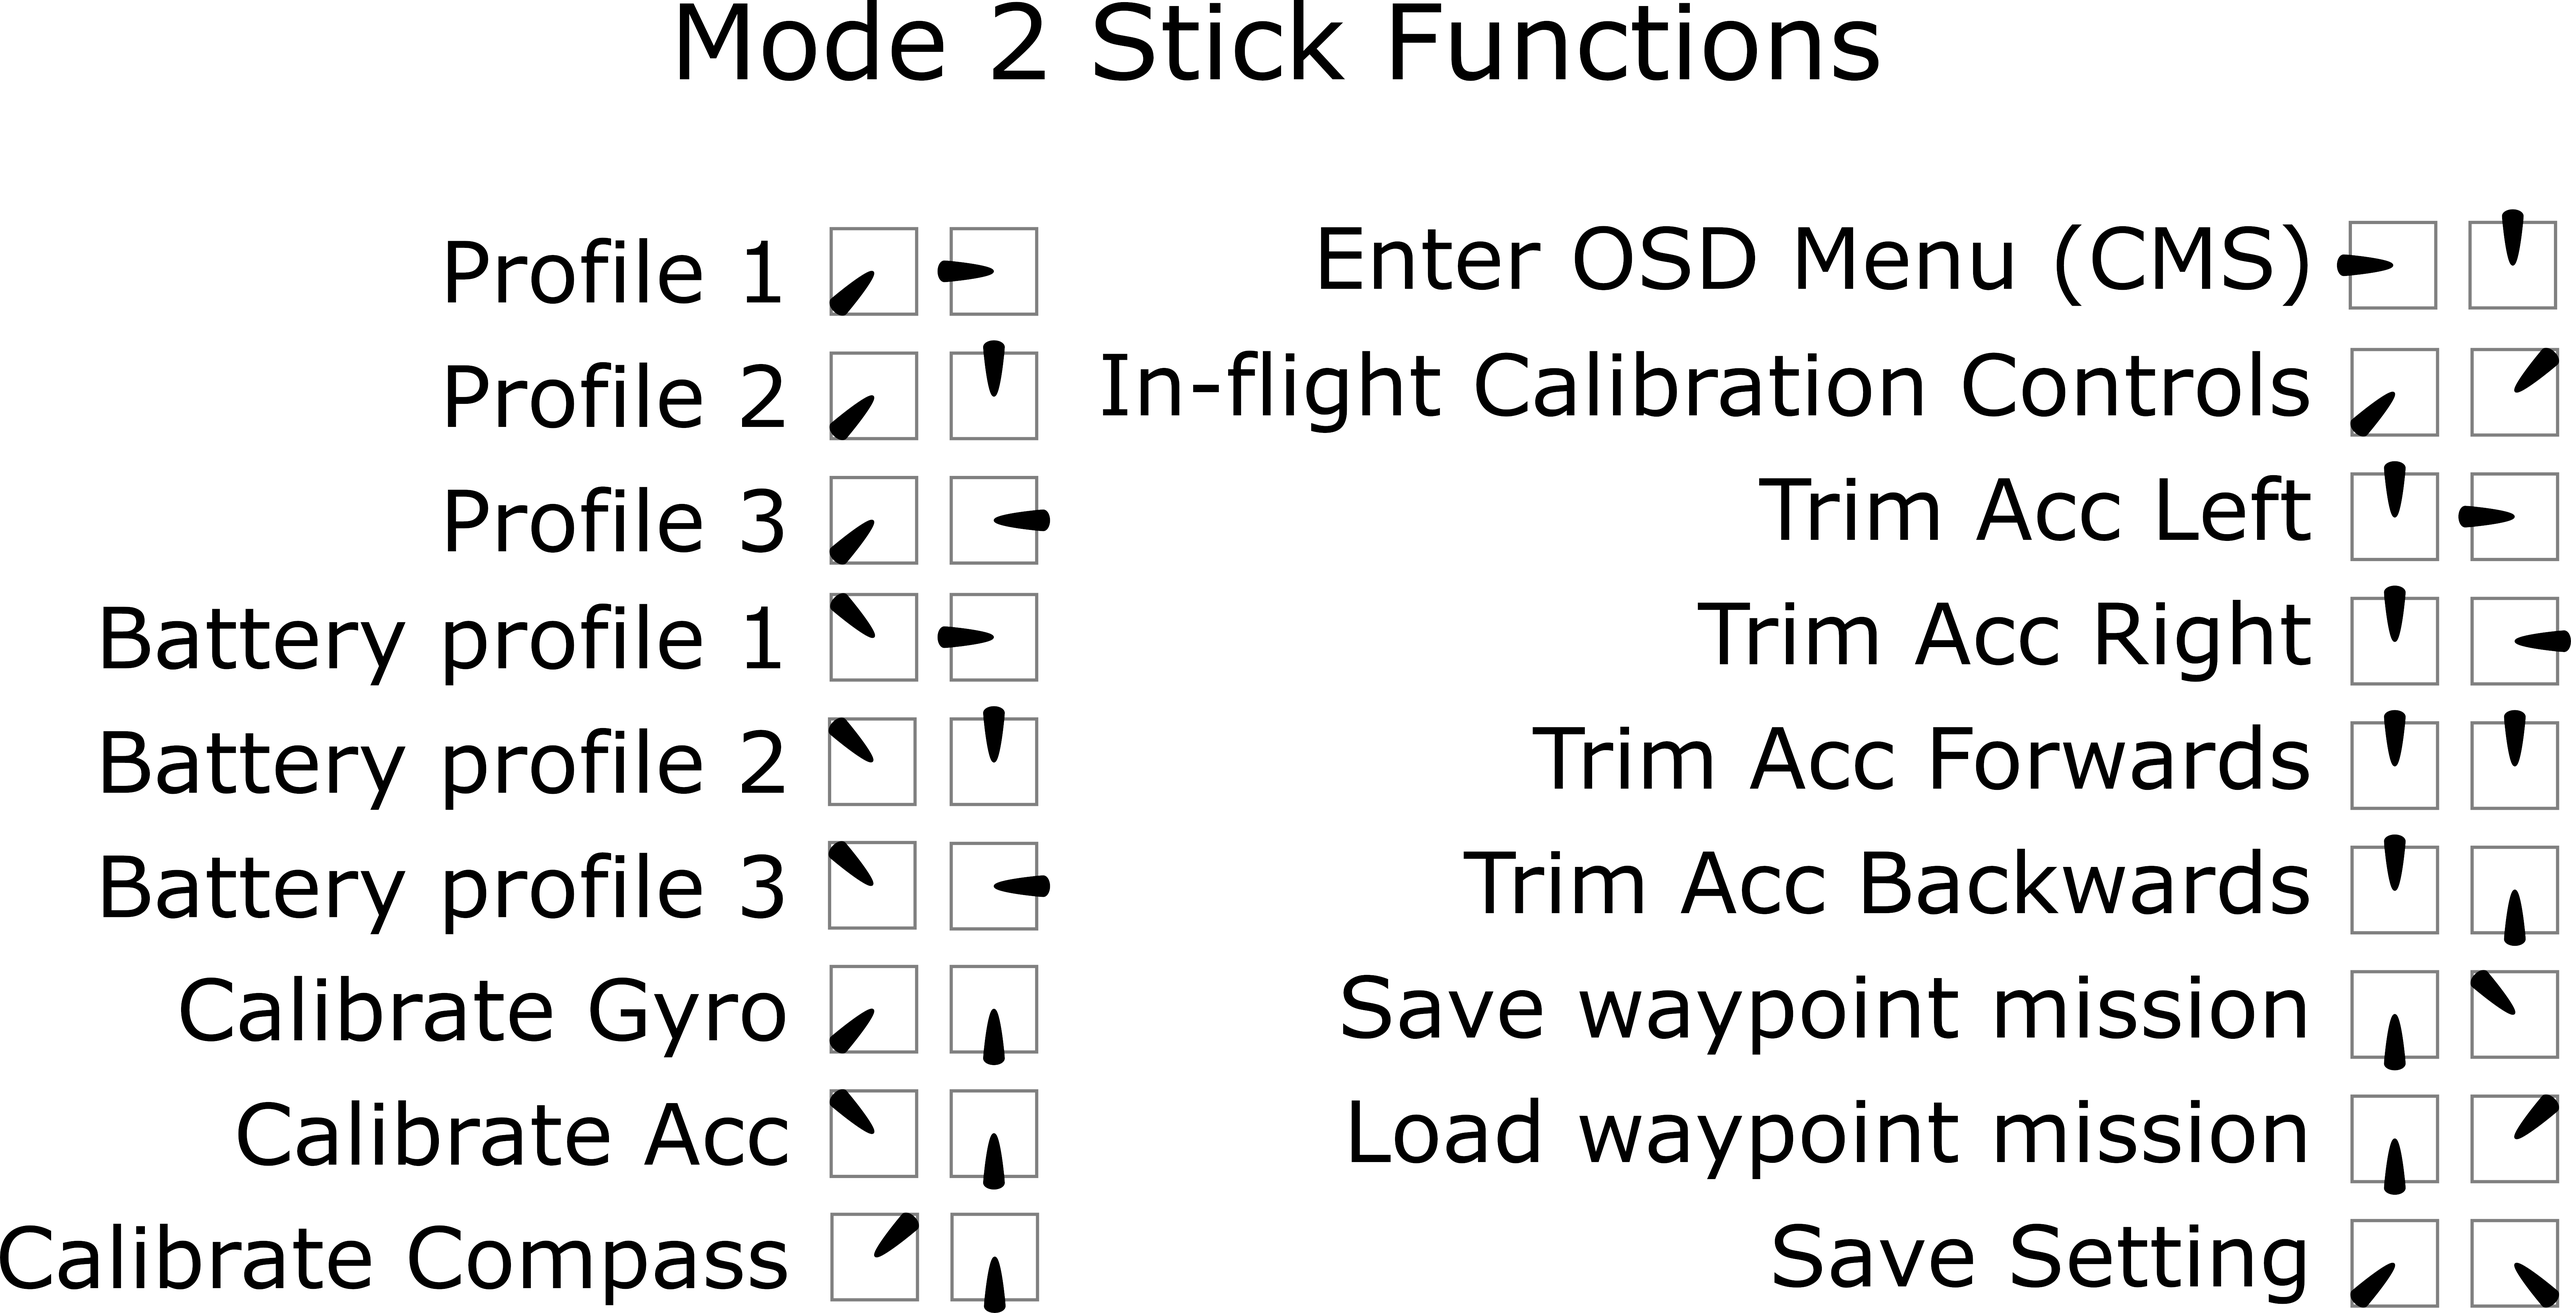
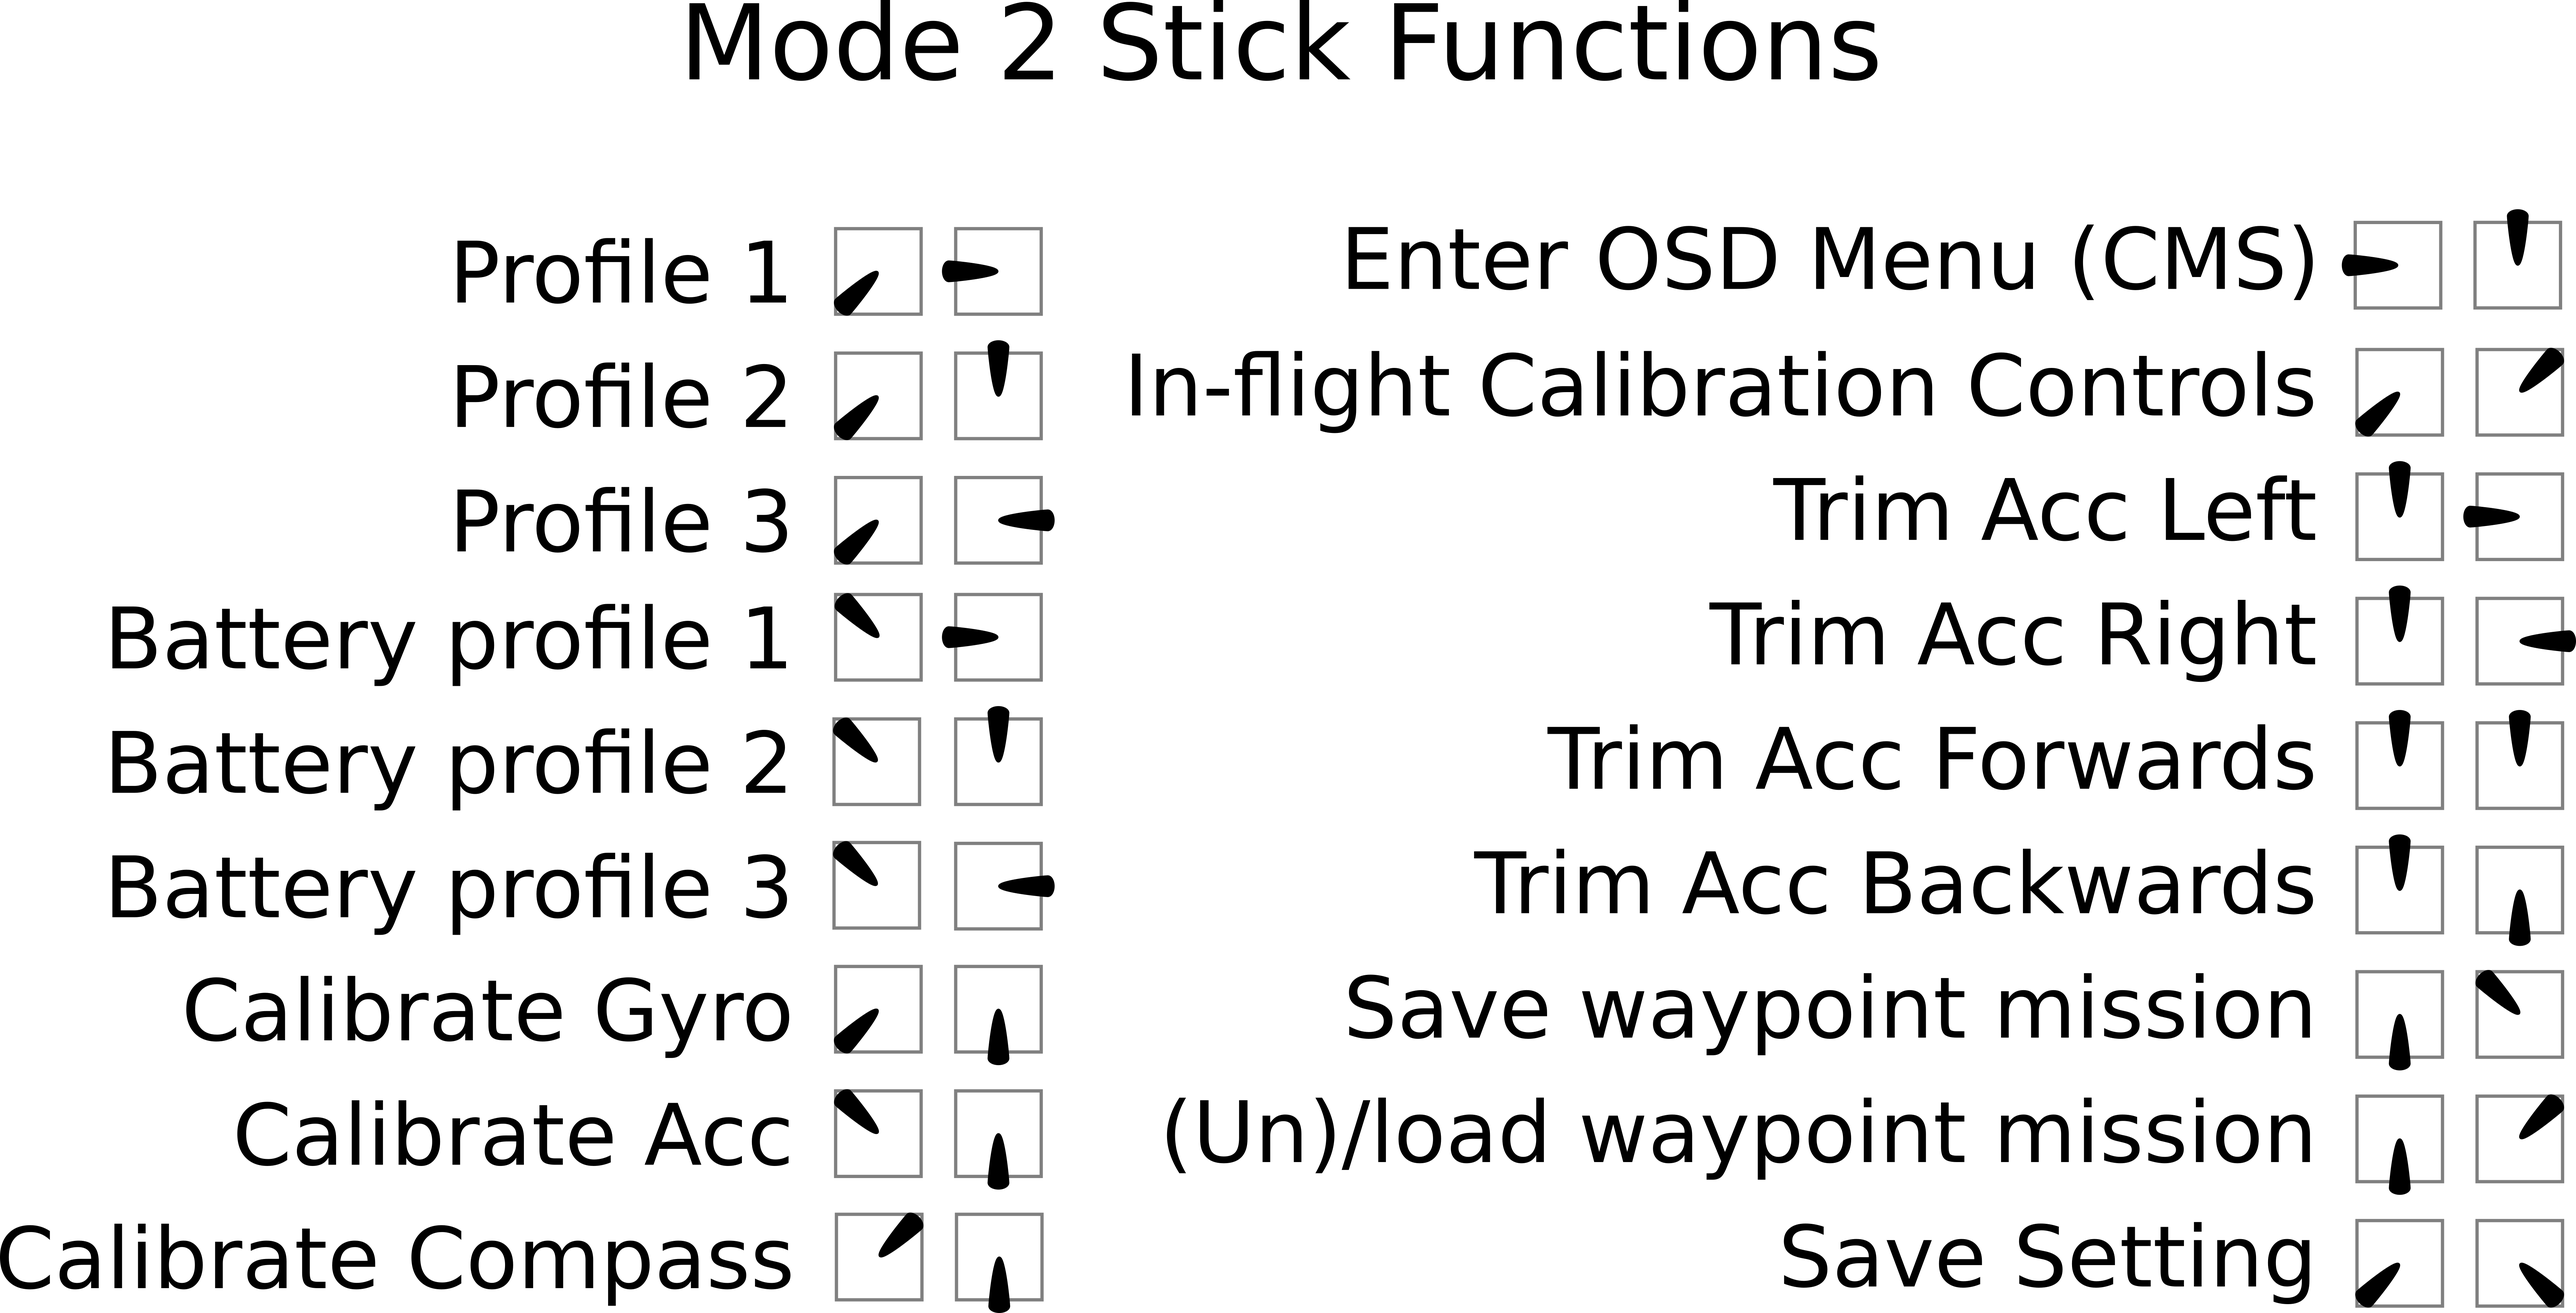
reimplement stick mission load as toggle; update RC control images and documentation

diff --git a/src/main/fc/rc_controls.c b/src/main/fc/rc_controls.c
@@ -260,7 +260,7 @@ void processRcStickPositions(throttleStatus_e throttleStatus)
 
     // Load waypoint list
     if (rcSticks == THR_LO + YAW_CE + PIT_HI + ROL_HI) {
-        const bool success = loadNonVolatileWaypointList(false);
+        const bool success = loadNonVolatileWaypointList(true);
         beeper(success ? BEEPER_ACTION_SUCCESS : BEEPER_ACTION_FAIL);
     }
 #endif

diff --git a/docs/Controls.md b/docs/Controls.md
@@ -40,6 +40,8 @@ The stick positions are combined to activate different functions:
 
 ![Stick Positions](assets/images/StickPositions.png)
 
+"Load/unload Mission" is a toogle. If no mission is loaded to RAM, the EEPROM mission is loaded; if a mission is in RAM, it is cleared. Successful loading is indicated by the `ACTION_SUCCESS` beep, otherwise the `ACTION_FAIL` beep is played.
+
 ## Yaw control
 
 While arming/disarming with sticks, your yaw stick will be moving to extreme values. In order to prevent your craft from trying to yaw during arming/disarming while on the ground, your yaw input will not cause the craft to yaw when the throttle is LOW (i.e. below the `min_check` setting).
